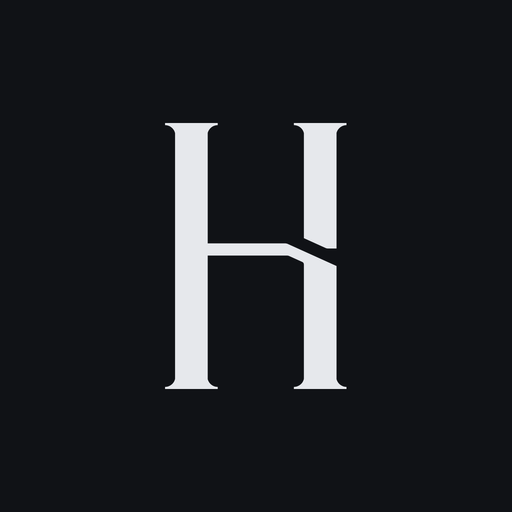
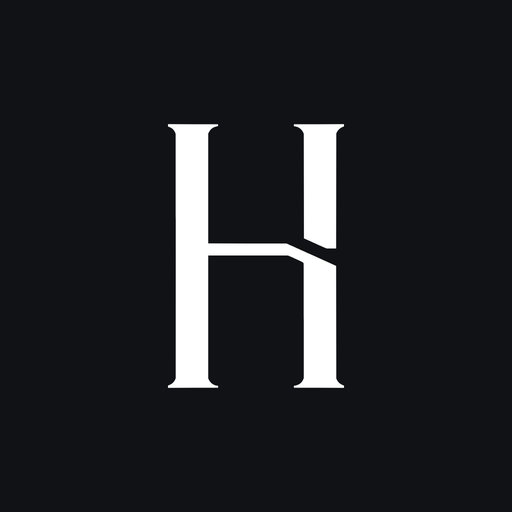
Monograma H vectorizado (SVG) para bienvenida e íconos nítidos

Changed region(s): [[0.3125, 0.2188, 0.6875, 0.7812]]

diff --git a/index.html b/index.html
@@ -47,7 +47,7 @@
   </head>
   <body>
     <div id="splash" aria-hidden="true">
-      <div class="sign"><span>by</span><img src="/brand/h-mark.png" alt="H" /></div>
+      <div class="sign"><span>by</span><img src="/brand/h-mark.svg" alt="H" /></div>
       <div class="app">Plan_GNSS</div>
     </div>
     <div id="root"></div>

diff --git a/brand/README.md b/brand/README.md
@@ -15,10 +15,10 @@ El favicon vectorial está en `public/favicon.svg`.
 ## Marca personal «H»
 
 - `H.jpg` — monograma personal del autor (blanco sobre negro), original.
-- `public/brand/h-mark.png` — recorte blanco con fondo transparente (480 px de alto)
+- `public/brand/h-mark.svg` — vectorizado (potrace) en blanco, nítido a cualquier tamaño;
   para la pantalla de bienvenida («by H» + «Plan_GNSS», 2 s, en `index.html`).
 
 ## App instalable
 
-Nombre corto «Plan_GNSS». Íconos en `public/pwa/` (monograma «H» sobre `#101216`,
+Nombre corto «Plan_GNSS». Íconos en `public/pwa/` (monograma «H» vectorial sobre `#101216`,
 512/192/180 px) y manifest en `public/manifest.webmanifest`.
